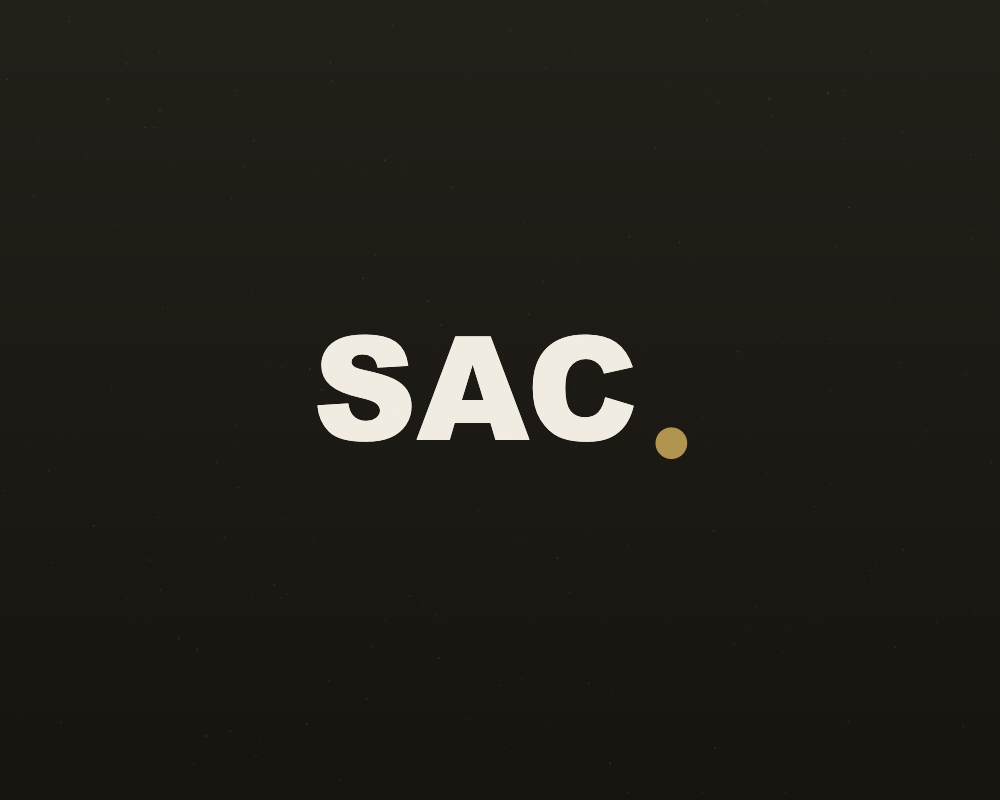
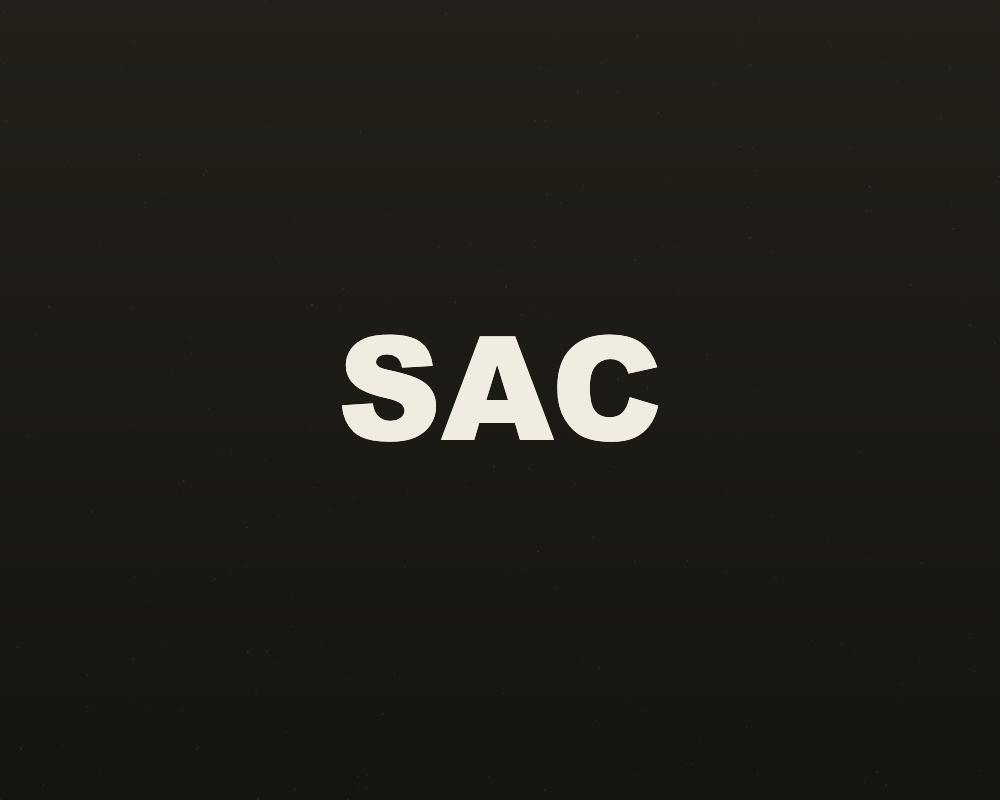
Update SAC Magazine templates and assets

Changed region(s): [[0.31, 0.4062, 0.713, 0.5938]]

diff --git a/magazine/article.html b/magazine/article.html
@@ -57,6 +57,53 @@
     .a-hero .byline{ flex-direction:column; align-items:flex-start; }
     .m-toc ol{ columns:1; }
   }
+
+  /* ===== 2-COLUMN LAYOUT + STICKY SIDEBAR ===== */
+  .layout{ max-width:1220px; margin:0 auto; padding:0 40px; display:grid; grid-template-columns:minmax(0,1fr) 320px; gap:54px; align-items:start; }
+  .layout .article{ max-width:100%; margin:0; padding:0; }
+  .layout .body-wrap{ padding-top:50px; }
+  .layout .main-col .module{ margin-left:0; margin-right:0; max-width:100%; }
+  .layout .main-col .module[style*="max-width"]{ max-width:100% !important; }
+  .layout .m-related{ max-width:100%; margin-top:64px; }
+  .layout .m-related .grid{ grid-template-columns:1fr 1fr; gap:22px; }
+
+  /* sidebar */
+  .side-col{ position:sticky; top:80px; max-height:calc(100vh - 100px); overflow-y:auto; overflow-x:hidden; padding-right:8px; }
+  .side-col::-webkit-scrollbar{ width:6px; }
+  .side-col::-webkit-scrollbar-thumb{ background:var(--line); border-radius:10px; }
+  .side-col::-webkit-scrollbar-track{ background:transparent; }
+  .wgt{ margin-bottom:32px; }
+  .wgt:last-child{ margin-bottom:0; }
+  .wgt-head{ font-family:var(--mono); font-size:11px; letter-spacing:.16em; text-transform:uppercase; color:var(--ink); display:flex; align-items:center; gap:10px; margin-bottom:16px; padding-bottom:11px; border-bottom:1px solid var(--ink); }
+  .wgt-head::before{ content:""; width:13px; height:13px; background:var(--gold); border-radius:2px; flex:none; }
+  .wgt-head .jp{ color:var(--ink-3); font-size:10px; letter-spacing:.04em; margin-left:auto; }
+
+  /* search widget */
+  .sw-search{ display:flex; gap:8px; }
+  .sw-search input{ flex:1; min-width:0; border:1px solid var(--line); background:var(--paper-3); border-radius:100px; padding:12px 18px; font-family:var(--sans); font-size:13px; color:var(--ink); outline:none; transition:border-color .2s; }
+  .sw-search input:focus{ border-color:var(--ink); }
+  .sw-search button{ background:var(--ink); color:var(--paper); border:0; border-radius:100px; padding:0 18px; font-family:var(--mono); font-size:12px; letter-spacing:.06em; cursor:pointer; transition:.2s; flex:none; }
+  .sw-search button:hover{ background:var(--gold); }
+  .sw-tags{ display:flex; flex-wrap:wrap; gap:7px; margin-top:14px; }
+  .sw-tags a{ font-family:var(--mono); font-size:10px; letter-spacing:.04em; color:var(--ink-2); text-decoration:none; border:1px solid var(--line); border-radius:100px; padding:5px 11px; transition:.2s; }
+  .sw-tags a:hover{ border-color:var(--ink); color:var(--ink); }
+
+  /* article items (popular / related) */
+  .s-item{ display:grid; grid-template-columns:88px 1fr; gap:13px; padding:12px 0; border-bottom:1px solid var(--line-2); text-decoration:none; color:inherit; align-items:start; }
+  .s-item:last-child{ border-bottom:0; }
+  .s-item .ban{ position:relative; aspect-ratio:4/3; border-radius:5px; overflow:hidden; border:1px solid var(--line); background:var(--paper-3); }
+  .s-item .ban img{ width:100%; height:100%; object-fit:cover; display:block; }
+  .s-item .rk{ position:absolute; left:0; top:0; width:24px; height:24px; background:var(--ink); color:var(--paper); font-family:var(--disp); font-weight:900; font-size:12px; display:flex; align-items:center; justify-content:center; }
+  .s-item.top .rk{ background:var(--gold); }
+  .s-item .t{ font-size:12.5px; line-height:1.55; font-weight:700; letter-spacing:.01em; }
+  .s-item:hover .t{ color:var(--gold); }
+  .s-item .mt{ font-family:var(--mono); font-size:10px; letter-spacing:.04em; color:var(--ink-3); margin-top:6px; }
+
+  @media (max-width:980px){
+    .layout{ grid-template-columns:1fr; gap:0; padding-left:22px; padding-right:22px; }
+    .side-col{ position:static; max-height:none; overflow:visible; padding-right:0; margin-top:54px; padding-top:40px; border-top:1px solid var(--line); }
+    .layout .m-related .grid{ grid-template-columns:1fr; }
+  }
 </style>
 </head>
 <body class="mag">
@@ -94,6 +141,8 @@
     </figure>
   </article>
 
+  <div class="layout">
+   <div class="main-col">
   <div class="article body-wrap">
 
     <!-- M02 LEAD -->
@@ -286,7 +335,7 @@
   </div>
 
   <!-- M14 RELATED -->
-  <section class="m-related wrap">
+  <section class="m-related">
     <div class="secmark"><span class="n">/ Related</span> <b>あわせて読みたい</b></div>
     <div class="grid">
       <a class="rel-card" href="article.html"><div class="thumb"><div class="ph"><img src="assets/work1.png" alt=""></div><span class="cat">How To</span></div><h4>AI画像生成プロンプトの書き方 完全ガイド<span class="dot">.</span></h4><div class="meta">2026.06.04 ・ 14 MIN</div></a>
@@ -294,12 +343,58 @@
       <a class="rel-card" href="article.html"><div class="thumb"><div class="ph"><img src="assets/work2.png" alt=""></div><span class="cat">Interview</span></div><h4>AIは「作る」を変えるのか。人間の温度の残し方<span class="dot">.</span></h4><div class="meta">2026.06.02 ・ 12 MIN</div></a>
     </div>
   </section>
+   </div><!-- /main-col -->
+
+   <aside class="side-col">
+     <!-- WIDGET: Search -->
+     <div class="wgt">
+       <div class="wgt-head">Search <span class="jp">記事を探す</span></div>
+       <form class="sw-search" onsubmit="return false">
+         <input type="text" placeholder="キーワードで探す">
+         <button type="submit">検索</button>
+       </form>
+       <div class="sw-tags">
+         <a href="#"># プロンプト</a><a href="#"># ブランド映像</a><a href="#"># 比較</a><a href="#"># 事例</a><a href="#"># チェックリスト</a>
+       </div>
+     </div>
+
+     <!-- WIDGET: Popular 10 -->
+     <div class="wgt">
+       <div class="wgt-head">Popular <span class="jp">人気記事</span></div>
+       <a class="s-item top" href="#"><div class="ban"><span class="rk">1</span><img src="assets/work1.png" alt=""></div><div><div class="t">AI画像生成プロンプトの書き方 完全ガイド</div><div class="mt">How To ・ ♥ 2,480</div></div></a>
+       <a class="s-item top" href="#"><div class="ban"><span class="rk">2</span><img src="assets/work3.png" alt=""></div><div><div class="t">主要AI画像生成ツール 徹底比較｜用途別の選び方</div><div class="mt">比較 ・ ♥ 1,930</div></div></a>
+       <a class="s-item top" href="#"><div class="ban"><span class="rk">3</span><img src="assets/work5.png" alt=""></div><div><div class="t">AI生成物の「公開前」チェックリスト22項目</div><div class="mt">チェックリスト ・ ♥ 3,110</div></div></a>
+       <a class="s-item" href="#"><div class="ban"><span class="rk">4</span><img src="assets/work4.png" alt=""></div><div><div class="t">ブランド映像のためのプロンプト30選</div><div class="mt">プロンプト集 ・ ♥ 4,260</div></div></a>
+       <a class="s-item" href="#"><div class="ban"><span class="rk">5</span><img src="assets/work6.png" alt=""></div><div><div class="t">AI映像のルックを安定させる5ステップ</div><div class="mt">How To ・ ♥ 1,540</div></div></a>
+       <a class="s-item" href="#"><div class="ban"><span class="rk">6</span><img src="assets/work2.png" alt=""></div><div><div class="t">生成AIで作る、架空ブランドの世界観</div><div class="mt">事例 ・ ♥ 1,280</div></div></a>
+       <a class="s-item" href="#"><div class="ban"><span class="rk">7</span><img src="assets/g1.png" alt=""></div><div><div class="t">モーション・ブランディング入門</div><div class="mt">Branding ・ ♥ 980</div></div></a>
+       <a class="s-item" href="#"><div class="ban"><span class="rk">8</span><img src="assets/g2.png" alt=""></div><div><div class="t">AIと著作権、商用利用の基礎知識</div><div class="mt">ノウハウ ・ ♥ 870</div></div></a>
+       <a class="s-item" href="#"><div class="ban"><span class="rk">9</span><img src="assets/g3.png" alt=""></div><div><div class="t">効果が出るネガティブプロンプト集</div><div class="mt">プロンプト集 ・ ♥ 760</div></div></a>
+       <a class="s-item" href="#"><div class="ban"><span class="rk">10</span><img src="assets/medium.png" alt=""></div><div><div class="t">制作スピードを2倍にするワークフロー</div><div class="mt">ワークフロー ・ ♥ 640</div></div></a>
+     </div>
+
+     <!-- WIDGET: Related 10 -->
+     <div class="wgt">
+       <div class="wgt-head">Related <span class="jp">関連記事</span></div>
+       <a class="s-item" href="#"><div class="ban"><img src="assets/medium-l.png" alt=""></div><div><div class="t">AIは「作る」を変えるのか。人間の温度の残し方</div><div class="mt">Interview ・ 12 MIN</div></div></a>
+       <a class="s-item" href="#"><div class="ban"><img src="assets/medium-r.png" alt=""></div><div><div class="t">「人間の温度」を、プロンプトに翻訳する</div><div class="mt">Essay ・ 6 MIN</div></div></a>
+       <a class="s-item" href="#"><div class="ban"><img src="assets/large.png" alt=""></div><div><div class="t">24世紀ラーメン — 架空ブランドが本物になるまで</div><div class="mt">Case Study ・ 10 MIN</div></div></a>
+       <a class="s-item" href="#"><div class="ban"><img src="assets/small.png" alt=""></div><div><div class="t">ロゴが動き出す時代の、モーション・ブランディング</div><div class="mt">Branding ・ 9 MIN</div></div></a>
+       <a class="s-item" href="#"><div class="ban"><img src="assets/split-a.png" alt=""></div><div><div class="t">サウンドクリエイターが見る、AIと「耳の作家性」</div><div class="mt">Interview ・ 11 MIN</div></div></a>
+       <a class="s-item" href="#"><div class="ban"><img src="assets/split-b.png" alt=""></div><div><div class="t">展示空間とAI — インスタレーションの新しい文法</div><div class="mt">Trend ・ 7 MIN</div></div></a>
+       <a class="s-item" href="#"><div class="ban"><img src="assets/feature.png" alt=""></div><div><div class="t">ブランドの一貫性を守る、生成ルールの作り方</div><div class="mt">Branding ・ 8 MIN</div></div></a>
+       <a class="s-item" href="#"><div class="ban"><img src="assets/ogpcard.png" alt=""></div><div><div class="t">シネマティックなルックの作り方</div><div class="mt">How To ・ 9 MIN</div></div></a>
+       <a class="s-item" href="#"><div class="ban"><img src="assets/wide.png" alt=""></div><div><div class="t">絵コンテをAIで高速化する方法</div><div class="mt">How To ・ 6 MIN</div></div></a>
+       <a class="s-item" href="#"><div class="ban"><img src="assets/hero.png" alt=""></div><div><div class="t">納品形式と品質管理の実務ガイド</div><div class="mt">ノウハウ ・ 7 MIN</div></div></a>
+     </div>
+   </aside>
+  </div><!-- /layout -->
 </main>
 
 <footer class="mag-footer">
   <div class="marquee"><div>SAC MAGAZINE&nbsp;&nbsp;·&nbsp;&nbsp;ONE PROMPT, CHANGE THE <b>WORLD</b>.&nbsp;&nbsp;·&nbsp;&nbsp;SAC MAGAZINE&nbsp;&nbsp;·&nbsp;&nbsp;ONE PROMPT, CHANGE THE <b>WORLD</b>.&nbsp;&nbsp;·&nbsp;&nbsp;</div></div>
   <div class="cols">
-    <div class="col"><h4>SAC<span class="dot">.</span></h4><p class="lead-sm">Smart AI Creative — AI・クリエイター・ビジネスを掛け合わせ、クリエイティブ制作におけるすべての制約を解放する。</p></div>
+    <div class="col"><h4>SAC</h4><p class="lead-sm">Smart AI Creative — AI・クリエイター・ビジネスを掛け合わせ、クリエイティブ制作におけるすべての制約を解放する。</p></div>
     <div class="col"><h5>Magazine</h5><ul><li><a href="list.html">記事一覧</a></li><li><a href="#">カテゴリ</a></li><li><a href="#">タグ</a></li><li><a href="overview.html">Concept</a></li></ul></div>
     <div class="col"><h5>SAC</h5><ul><li><a href="#">About</a></li><li><a href="#">Works</a></li><li><a href="#">Creator</a></li><li><a href="#">Contact</a></li></ul></div>
     <div class="col"><h5>Follow</h5><ul><li><a href="#">Instagram</a></li><li><a href="#">X (Twitter)</a></li><li><a href="#">Facebook</a></li><li><a href="#">YouTube</a></li></ul></div>

diff --git a/magazine/overview.html b/magazine/overview.html
@@ -252,7 +252,7 @@
 <footer class="mag-footer">
   <div class="marquee"><div>SAC MAGAZINE&nbsp;&nbsp;·&nbsp;&nbsp;ONE PROMPT, CHANGE THE <b>WORLD</b>.&nbsp;&nbsp;·&nbsp;&nbsp;SAC MAGAZINE&nbsp;&nbsp;·&nbsp;&nbsp;ONE PROMPT, CHANGE THE <b>WORLD</b>.&nbsp;&nbsp;·&nbsp;&nbsp;</div></div>
   <div class="cols">
-    <div class="col"><h4>SAC<span class="dot">.</span></h4><p class="lead-sm">Smart AI Creative — AI・クリエイター・ビジネスを掛け合わせ、クリエイティブ制作におけるすべての制約を解放する。</p></div>
+    <div class="col"><h4>SAC</h4><p class="lead-sm">Smart AI Creative — AI・クリエイター・ビジネスを掛け合わせ、クリエイティブ制作におけるすべての制約を解放する。</p></div>
     <div class="col"><h5>Magazine</h5><ul><li><a href="list.html">記事一覧</a></li><li><a href="article.html">記事詳細</a></li><li><a href="#">カテゴリ</a></li><li><a href="#">タグ</a></li></ul></div>
     <div class="col"><h5>SAC</h5><ul><li><a href="#">About</a></li><li><a href="#">Works</a></li><li><a href="#">Creator</a></li><li><a href="#">Contact</a></li></ul></div>
     <div class="col"><h5>Follow</h5><ul><li><a href="#">Instagram</a></li><li><a href="#">X (Twitter)</a></li><li><a href="#">Facebook</a></li><li><a href="#">YouTube</a></li></ul></div>

diff --git a/magazine/list.html b/magazine/list.html
@@ -202,7 +202,7 @@
 <footer class="mag-footer">
   <div class="marquee"><div>SAC MAGAZINE&nbsp;&nbsp;·&nbsp;&nbsp;ONE PROMPT, CHANGE THE <b>WORLD</b>.&nbsp;&nbsp;·&nbsp;&nbsp;SAC MAGAZINE&nbsp;&nbsp;·&nbsp;&nbsp;ONE PROMPT, CHANGE THE <b>WORLD</b>.&nbsp;&nbsp;·&nbsp;&nbsp;</div></div>
   <div class="cols">
-    <div class="col"><h4>SAC<span class="dot">.</span></h4><p class="lead-sm">Smart AI Creative — AI・クリエイター・ビジネスを掛け合わせ、クリエイティブ制作におけるすべての制約を解放する。</p></div>
+    <div class="col"><h4>SAC</h4><p class="lead-sm">Smart AI Creative — AI・クリエイター・ビジネスを掛け合わせ、クリエイティブ制作におけるすべての制約を解放する。</p></div>
     <div class="col"><h5>Magazine</h5><ul><li><a href="list.html">記事一覧</a></li><li><a href="#">カテゴリ</a></li><li><a href="#">タグ</a></li><li><a href="overview.html">Concept</a></li></ul></div>
     <div class="col"><h5>SAC</h5><ul><li><a href="#">About</a></li><li><a href="#">Works</a></li><li><a href="#">Creator</a></li><li><a href="#">Contact</a></li></ul></div>
     <div class="col"><h5>Follow</h5><ul><li><a href="#">Instagram</a></li><li><a href="#">X (Twitter)</a></li><li><a href="#">Facebook</a></li><li><a href="#">YouTube</a></li></ul></div>
